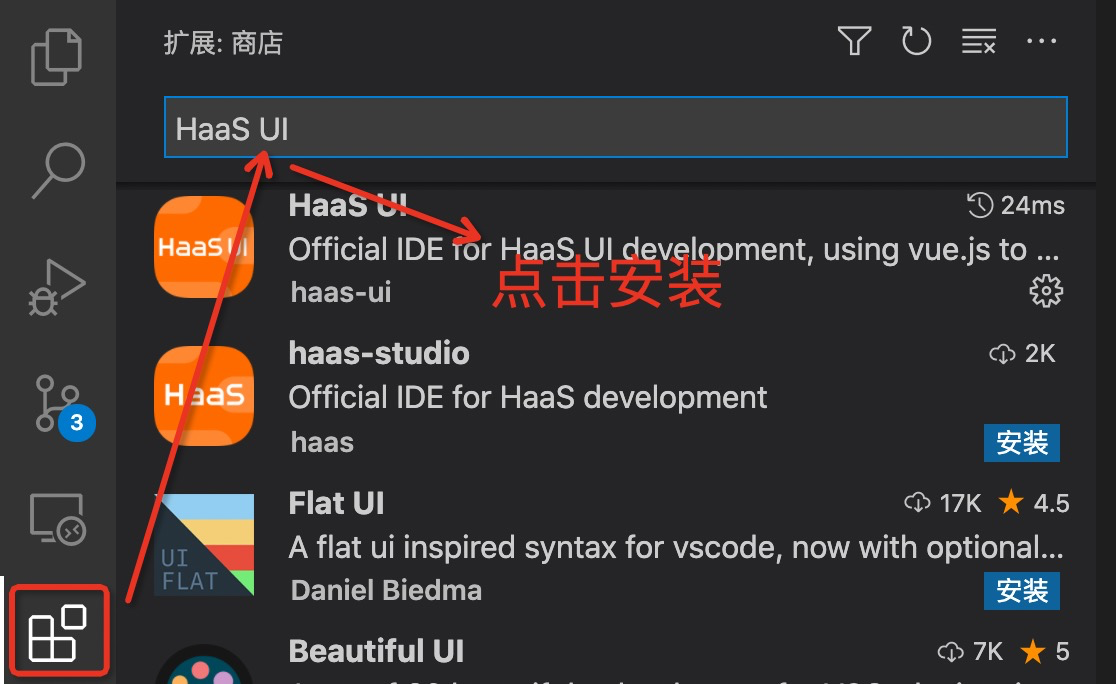
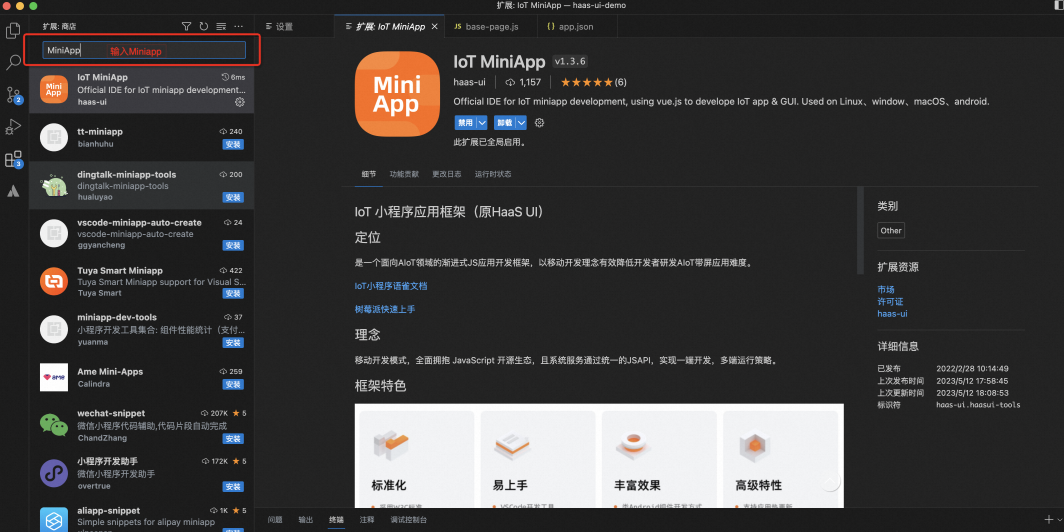
update

diff --git a/docs/index.md b/docs/index.md
@@ -1,16 +1,20 @@
-# IoT 小程序框架介绍
+# 轻量级小程序框架介绍
 
   
 
 ## 定位 
 
-是一套跨平台应用显示框架，它利用 JS 语言低门槛和 API 标准化大幅度降低了 IoT 应用的研发难度  目前支持 AliOS Things、Ubuntu、Linux、MacOS、Window 等系统上运行 
+是一套跨平台的轻量级应用引擎，包含UI显示框架、多应用&多服务能力、应用热更新能力
+
+它利用 JS 语言低门槛和 API 标准化大幅度降低了 IoT 应用的研发难度  
+
+目前支持 AliOS Things、Ubuntu、Linux、MacOS、Window 等系统上运行 
 
 ## 理念 
 
-移动开发模式，全面拥抱 JavaScript 开源生态，且系统服务通过统一的 JSAPI，实现一端开发，多端运行策略 
+移动开发模式，全面拥抱 JavaScript 开源生态，且系统服务通过统一的 JSAPI，**实现一端开发，多端运行策略** 
 
-W3CJS 语言开发为主采用 W3C 标准支持硬件加速VSCODE 编程方式品多样的动画效果应用热更新能力支持多应用运行模式丰富的 UI 组件![](_images/理念.png) 
+![](_images/理念.png) 
 
 ## 框架特色 
 
@@ -28,20 +32,20 @@ UI 效果，可以通过浏览器体验，[请点击网站](https://hli.aliyuncs
 
 多应用单页 / 多页动态卡片VUE.JS 前端框架 (60% 前端开发者使用)JS 运行框架渲染框架应用运行容器SKIAOPENGL热更新包管理渲染渲染CSS跨平台接口![](_images/框架介绍.png) 
 
-## 前端框架能力 
+#### 前端框架能力 
 
 - 前端框架：采用 Vue.js(v2.6.12) 开源框架, 实现了 W3C 标准的标签和样式子集 
 - CSS 样式：详细见[链接](app/css/common/common) 
 - 前端组件：详细见[链接](app/ui/base) 
 
-## 应用框架能力 
+#### 应用框架能力 
 
 - 多应用能力：引入类似 android 应用理念，可以将 IoT 场景里将复杂的业务进行拆成多个应用，独立运行降低资源开销，当应用退出后则会回收内存资源 
 - 热更新能力：支持应用的独立升级 (不依赖 OTA 升级)，实现应用更加敏捷的版本迭代 (包含 so 库) 
 - 包管理能力：实现对不同应用的管理，基于该模块可以扩展出<font color=red>应用市场</font>，可以实现三方应用的在线安装功能 
 
 
-## 图形框架能力 
+#### 图形框架能力 
 
 - 图片解码：支持 jpeg、png 解码能力 
 

diff --git a/docs/quick/vscode.md b/docs/quick/vscode.md
@@ -12,7 +12,7 @@
 
 ### 1.1 从应用商店安装 
 
-在 VS Code 的插件市场中，搜索 HaaS UI（不要安装 HaaS Studio 切记），点击安装即可 
+在 VS Code 的插件市场中，搜索 <font color=red>Miniapp</font>，选择<font color=red>IoT Miniapp</font>点击安装即可 
 ![](../_images/vscode_应用商店.png) 
 
 ## 2、搭建开发环境 
@@ -27,7 +27,7 @@
 
 ### 3.1 配置框架工程创建路径 (可选) 
 
-●Project Path 用于配置框架工程的创建路径，配置后用户创建的应用工程，默认会放到 Project Path 中。若不配置，会将创建的工程放到~/haasui-works 路径下 ![](../_images/vscode_haasui_conf.png) ![](../_images/vscode_haasui_conf2.png)
+●插件设置中Workspace Path 用于配置框架工程的创建路径，配置后用户创建的应用工程，默认会放到 Workspace Pat 中。若不配置，会将创建的工程放到~/haasui-works 路径下  ![](../_images/vscode_haasui_conf2.png)
 
 ###  3.2 点击创建工程按钮 
 
